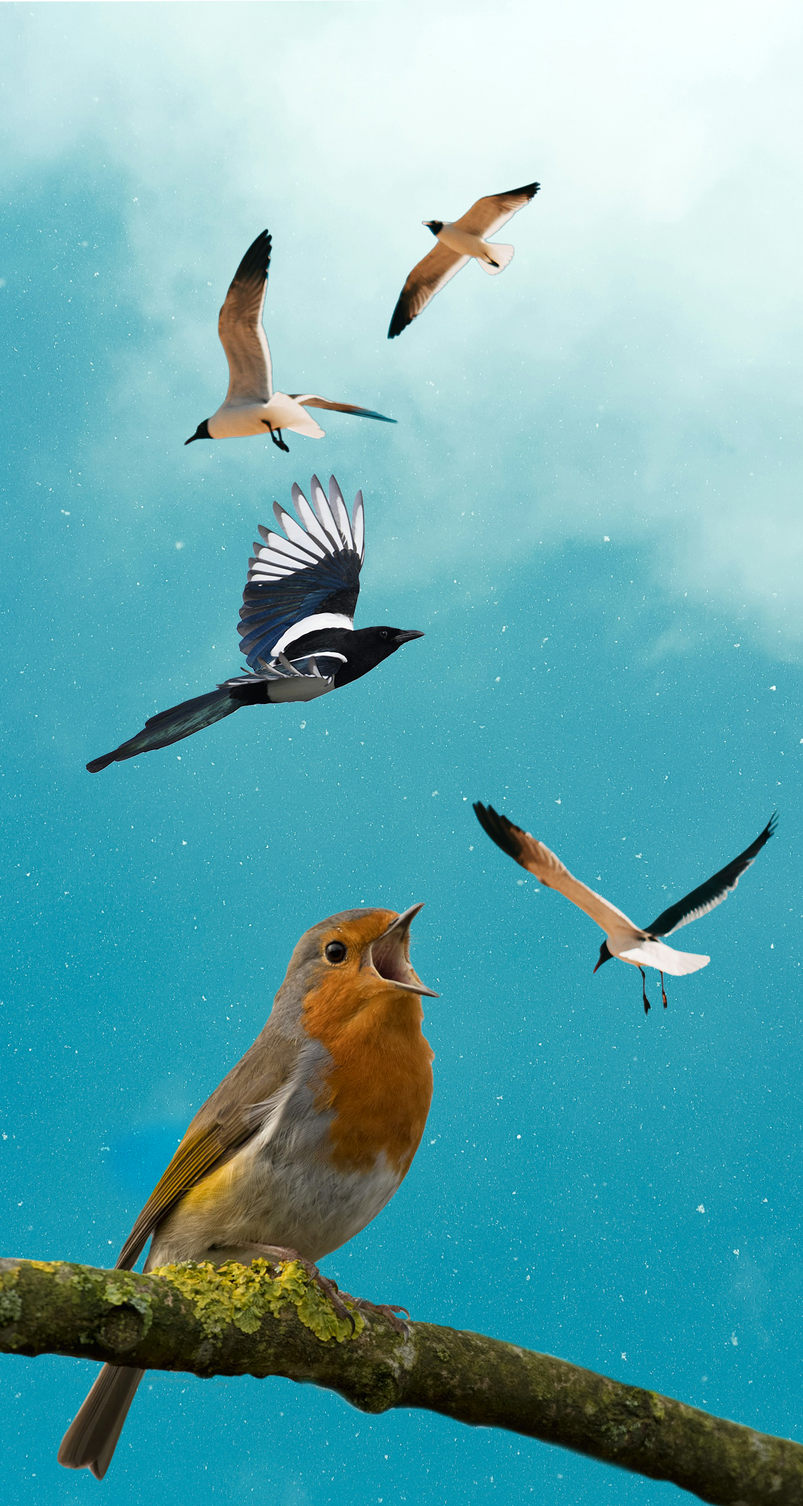
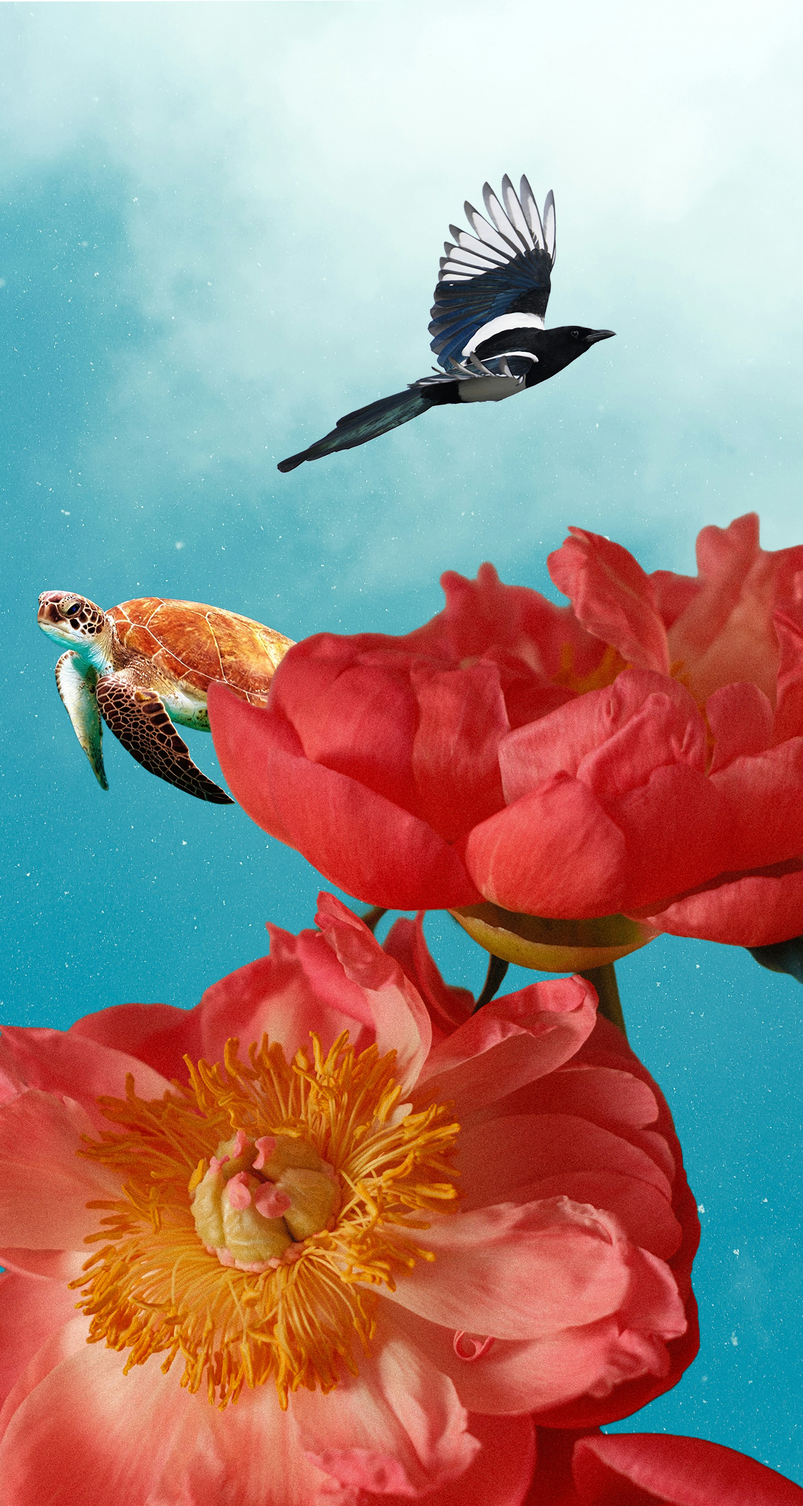
Nouvelle image de fond pour les trois univers (pie, tortue, pivoines)

diff --git a/src/pages/Index.tsx b/src/pages/Index.tsx
@@ -139,7 +139,7 @@ const Index = () => {
 
           {/* ── 4·5·6. LES TROIS UNIVERS (une seule image en fond) ── */}
           <div className="relative w-full">
-            <img src={troisDisciplines} alt="Oiseaux dans le ciel" className="block w-full h-auto" />
+            <img src={troisDisciplines} alt="Une pie en vol, une tortue de mer et des pivoines rouges" className="block w-full h-auto" />
             <div className="absolute inset-0 flex flex-col">
               {univers.map((u) => (
                 <Link
